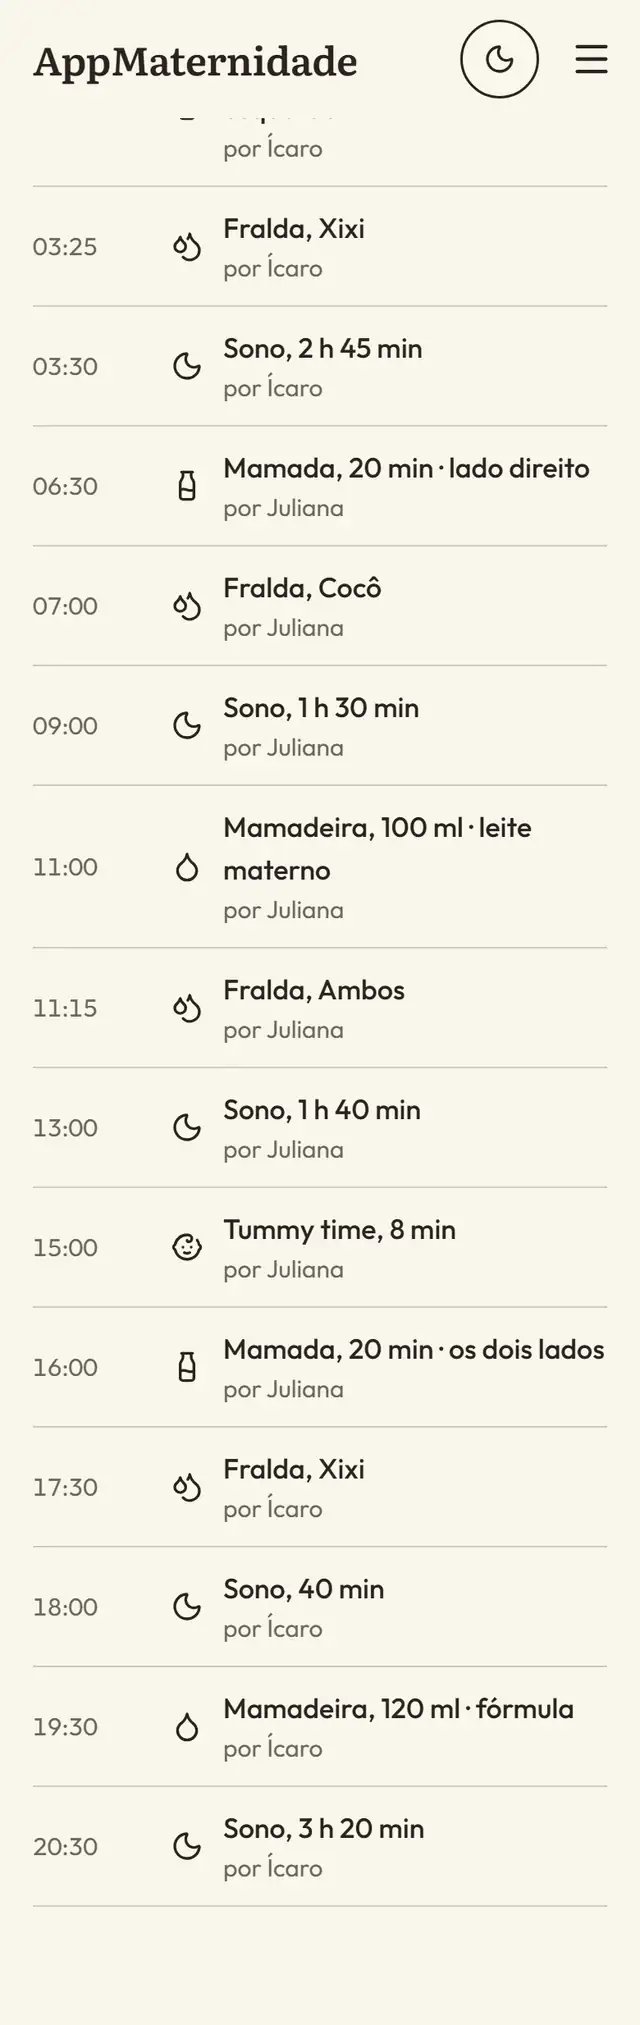
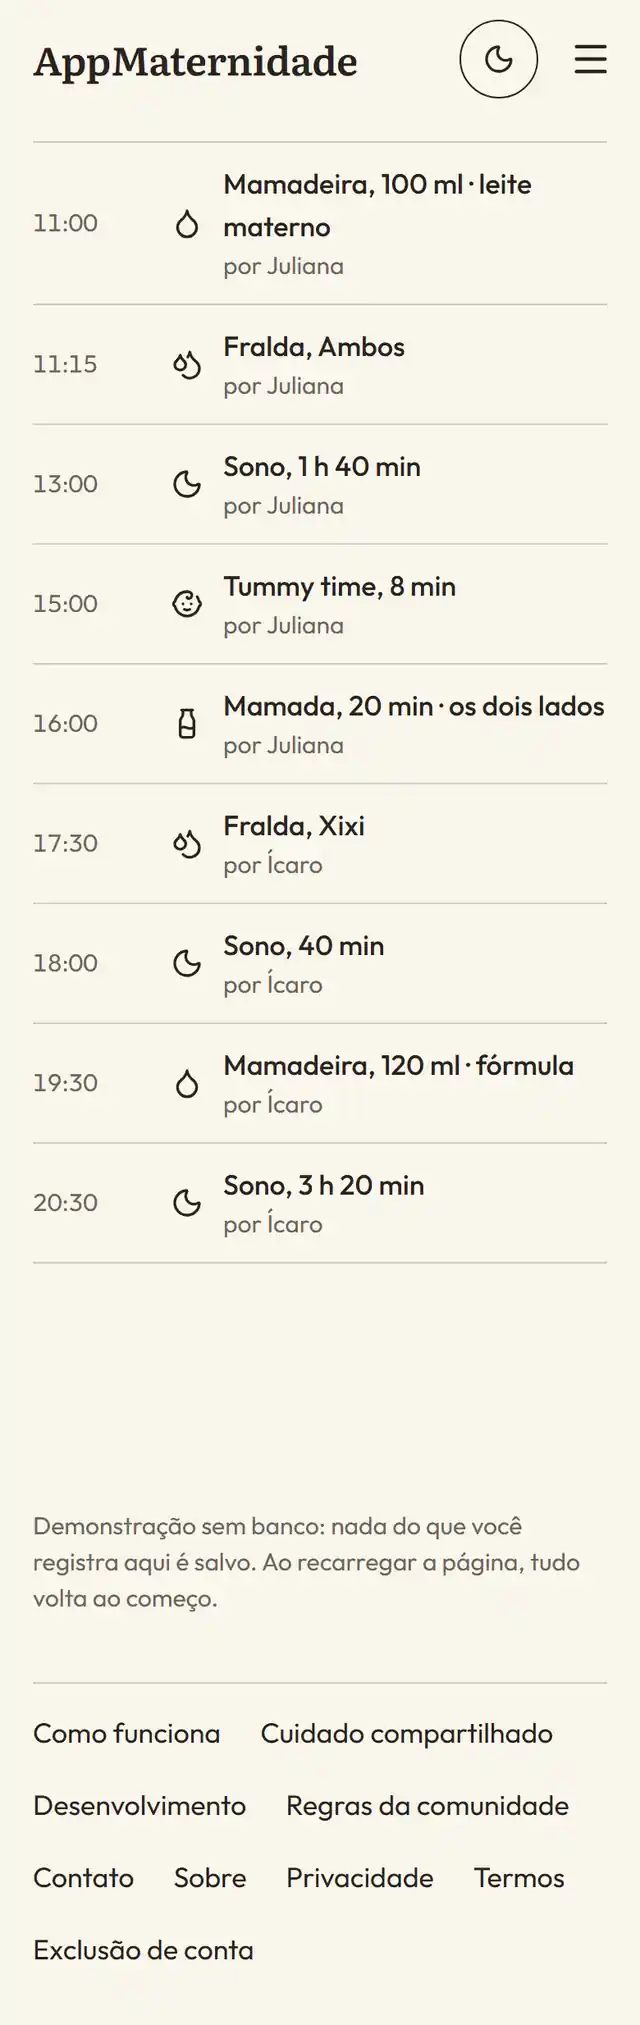
Recaptura Histórico e Hoje no horário da cena e fecha o teto

diff --git a/web/src/componentes/inicio-casa/midia.ts b/web/src/componentes/inicio-casa/midia.ts
@@ -84,11 +84,12 @@ const TAMANHOS_DA_TELA =
   '(min-width: 1440px) 320px, (max-width: 390px) 280px, calc(280px + (100vw - 390px) * 40 / 1050)'
 
 /**
- * State `Y_ALTA` of the manifest (recaptured 19/11/2026): the Histórico of the day before at 21:42, in a 390 x 1234
- * window scrolled to the foot, with the site footer and the demo note hidden for the capture. The app header sits at the
- * top of the image; the rows run from 03:25 to 20:30. The frame's screen layer shows 844 of the 1234 CSS px, so the
- * capture has exactly one screen width more than the screen (`ROLAGEM_PX`): the frame opens on the foot (the 16:00
- * Juliana and 17:30 Ícaro rows) and the pan goes up to the header and the morning rows. The frames of the Início serve it.
+ * State `Y_ALTA` of the manifest (recaptured 19/11/2026, clock fixed 18/11 21:42): the Histórico of the day before in a
+ * 390 x 1234 window scrolled to the page maximum (scroll_y 1767 of a 3001 px document), with `[data-rodape]` hidden for
+ * the capture. The app header sits at the top of the image; the rows run from 11:00 to 20:30. The frame's screen layer
+ * shows 844 of the 1234 CSS px, so the capture has exactly one screen width more than the screen (`ROLAGEM_PX`): the
+ * frame opens on the bottom 844 px, where the 16:00 Juliana and 17:30 Ícaro rows lead the resting frame, and the pan
+ * goes up to the header. The frames of the Início serve it.
  */
 export const CAPTURA_Y_ALTA: Imagem = {
   src: '/telas/casa/historico-y-alta-320w.webp',
@@ -129,8 +130,9 @@ export const M11_JANELA: Imagem = {
 }
 
 /**
- * State `N` of the manifest (recaptured 19/11/2026): Hoje in the madrugada theme at 21:42, the sleep in progress since
- * 20:30, in a 390 x 880 window scrolled 78 px, so the title clears the header and the bottom bar cuts no row. It is
+ * State `N` of the manifest (recaptured 19/11/2026, clock fixed 18/11 21:42): Hoje in the madrugada theme (dark), the
+ * sleep in progress since 20:30 and the yellow "Iniciar mamada" button with "Última mamada às 16:00, registrada por
+ * Juliana" above the bottom bar, in a 390 x 880 window scrolled 78 px, so the title clears the header. It is
  * 390:880, taller than the frame's 390:844 screen layer: the sleep frame shows it whole (`object-fit: contain` on the
  * paper of the app, inicio-casa.css), never cropped.
  */

diff --git a/web/public/telas/casa/PROVENANCE.md b/web/public/telas/casa/PROVENANCE.md
@@ -2,7 +2,7 @@
 
 The three screens were captured by `.oc/capturar.mjs` through `.oc/cdp.mjs` with mobile emulation (dpr 2, touch) and the fixed demo clock; each PNG is downscaled with LANCZOS to the served widths and encoded as lossy WebP (method 6). The manifest `MANIFESTO.json` carries the capture records and the hashes.
 
-HOME-FINAL recapture (2026-11-19): `historico-y-alta-*` and `hoje-n-*` were captured again with the `janela` extra of `.oc/capturar.mjs` (demo sign-in, DPR 2, asserted paths `/app/historico` and `/app/hoje`, clock fixed 2026-11-18T21:42:04-03:00) and encoded by `.oc/gerar.py` (PIL LANCZOS, WebP method 6, the quality per file below). The Histórico is the day before in a 390 x 1234 window scrolled to the foot, with the site footer and the demo note hidden by an injected `display:none` rule for the capture only; the Hoje is a 390 x 880 window scrolled 78 px. Same file names as before. `historico-y-*` (state Y) is unchanged.
+HOME-FINAL-b recapture (2026-11-19): `historico-y-alta-*` and `hoje-n-*` were captured again by `.oc/rec.mjs`, which calls the `janela` extra of `.oc/capturar.mjs` with fail-closed asserts (demo sign-in, DPR 2, asserted paths `/app/historico` and `/app/hoje`) and encoded by `.oc/gerar.py` (PIL LANCZOS, WebP method 6, the quality per file below). The clock is pinned to 2026-11-18T21:42:04-03:00 by a CDP `Page.addScriptToEvaluateOnNewDocument` Date shim (`CAPTURA_RELOGIO`). Why: the previous Hoje capture used the case `hoje_app`, whose route branch never switched the madrugada theme, so it came out light, and in light the "Iniciar mamada" button with the last-feeding line is not drawn; the previous Histórico frame rested on the bottom 844 css px of the 1234 px capture and left the 09:00 row at its top. Now: the Histórico is the day before at 21:42 in a 390 x 1234 window (row 16:00 Juliana aligned at y=404 css, 17:30 Ícaro right below, so they lead the resting frame; scroll_y 1767, document height 3001 = scroll_y + 1234); 69 css px of blank spacer was added at the foot of the page for the capture only, so the page can scroll that far; the site footer `[data-rodape]` is set to `display:none` by an injected rule for the capture only. The Hoje is the madrugada theme (`data-tema` madrugada) in a 390 x 880 window scrolled 78 px, with "Iniciar mamada" and "Última mamada às 16:00, registrada por Juliana" fully above the bottom bar. The demo fixture has no entries for today, so the clock pin cannot create today's rows and the Hoje counters stay 0 by the fixture. Same file names as before. `historico-y-*` (state Y) is unchanged.
 
 | file | sha256 | bytes | WxH | source | script (name + sha256) | operation | date |
 |---|---|---|---|---|---|---|---|
@@ -10,11 +10,11 @@ HOME-FINAL recapture (2026-11-19): `historico-y-alta-*` and `hoje-n-*` were capt
 | historico-y-560w.webp | 99679ea38918e022f0253ecd544ce2cce6ef20060c1db4b0c516cf8745b30a3d | 26834 | 560x1212 | historico_y_claro_390.png sha256 d701a1ad534373e36f54470f4933789249c2920eb5bfb65db671d79c5cd145a1; CAPTURA_OK historico_y_claro_390.png caminho=/app/historico png=780x1688 esperado=780x1688 mobile=true dpr=2 toque=true scrollWidth=390 sha256=d701a1ad534373e36f54470f4933789249c2920eb5bfb65db671d79c5cd145a1 (só a janela) | gerar_ativos.py sha256 8485a4e01cd8f989db7340d77d502f4da907c993941f3b3b68ca94eb8b5ae7d6 | WebP q82 method 6 LANCZOS downscale from 780 px | 2026-11-18 |
 | historico-y-320w.webp | fa6462b412e4be99752bd3626af98d93bfa00f6deb8c310d470a366bc4d8a60f | 13752 | 320x693 | historico_y_claro_390.png sha256 d701a1ad534373e36f54470f4933789249c2920eb5bfb65db671d79c5cd145a1; CAPTURA_OK historico_y_claro_390.png caminho=/app/historico png=780x1688 esperado=780x1688 mobile=true dpr=2 toque=true scrollWidth=390 sha256=d701a1ad534373e36f54470f4933789249c2920eb5bfb65db671d79c5cd145a1 (só a janela) | gerar_ativos.py sha256 8485a4e01cd8f989db7340d77d502f4da907c993941f3b3b68ca94eb8b5ae7d6 | WebP q82 method 6 LANCZOS downscale from 780 px | 2026-11-18 |
 | historico-y-280w.webp | 25e7c44db58acfe875c07aa60a4630e981e32b45d4772f0d98ce67b1edff1679 | 11924 | 280x606 | historico_y_claro_390.png sha256 d701a1ad534373e36f54470f4933789249c2920eb5bfb65db671d79c5cd145a1; CAPTURA_OK historico_y_claro_390.png caminho=/app/historico png=780x1688 esperado=780x1688 mobile=true dpr=2 toque=true scrollWidth=390 sha256=d701a1ad534373e36f54470f4933789249c2920eb5bfb65db671d79c5cd145a1 (só a janela) | gerar_ativos.py sha256 8485a4e01cd8f989db7340d77d502f4da907c993941f3b3b68ca94eb8b5ae7d6 | WebP q82 method 6 LANCZOS downscale from 780 px | 2026-11-18 |
-| historico-y-alta-640w.webp | 097cf652125d1d2306d296e20066143bcd3ffc77d99cf406c2b837e8d037d836 | 35798 | 640x2025 | historico_ontem_claro_390_janela.png sha256 2697512667fafe9f680bacf0ca2984cf0c99e3778b9d209717c47d6042abb061; CAPTURA_OK historico_ontem_claro_390_janela.png caminho=/app/historico png=780x2468 esperado=780x2468 mobile=true dpr=2 toque=true scrollWidth=390 sha256=2697512667fafe9f680bacf0ca2984cf0c99e3778b9d209717c47d6042abb061 (só a janela); the day before, scrolled to the foot (CAPTURA_ROLAR=fim), site footer and demo note hidden by injected display:none | .oc/capturar.mjs (extra janela, clock fixed 2026-11-18T21:42:04-03:00) + .oc/gerar.py | WebP q60 method 6 PIL LANCZOS downscale from 780 px | 2026-11-19 |
-| historico-y-alta-560w.webp | 8553f2feff632f75eb3b8e4641a714d7229fb9be6f3c1a5d40dcd54ce0f9f9a9 | 33812 | 560x1772 | historico_ontem_claro_390_janela.png sha256 2697512667fafe9f680bacf0ca2984cf0c99e3778b9d209717c47d6042abb061; CAPTURA_OK historico_ontem_claro_390_janela.png caminho=/app/historico png=780x2468 esperado=780x2468 mobile=true dpr=2 toque=true scrollWidth=390 sha256=2697512667fafe9f680bacf0ca2984cf0c99e3778b9d209717c47d6042abb061 (só a janela); the day before, scrolled to the foot (CAPTURA_ROLAR=fim), site footer and demo note hidden by injected display:none | .oc/capturar.mjs (extra janela, clock fixed 2026-11-18T21:42:04-03:00) + .oc/gerar.py | WebP q72 method 6 PIL LANCZOS downscale from 780 px | 2026-11-19 |
-| historico-y-alta-320w.webp | 358e2c46fce1f935e7f49187d15ce5cf6e24ac753f8c6561942c20763ce5a4ec | 16102 | 320x1013 | historico_ontem_claro_390_janela.png sha256 2697512667fafe9f680bacf0ca2984cf0c99e3778b9d209717c47d6042abb061; CAPTURA_OK historico_ontem_claro_390_janela.png caminho=/app/historico png=780x2468 esperado=780x2468 mobile=true dpr=2 toque=true scrollWidth=390 sha256=2697512667fafe9f680bacf0ca2984cf0c99e3778b9d209717c47d6042abb061 (só a janela); the day before, scrolled to the foot (CAPTURA_ROLAR=fim), site footer and demo note hidden by injected display:none | .oc/capturar.mjs (extra janela, clock fixed 2026-11-18T21:42:04-03:00) + .oc/gerar.py | WebP q60 method 6 PIL LANCZOS downscale from 780 px | 2026-11-19 |
-| historico-y-alta-280w.webp | 53fc11b8b726ed9118477c8a251bb96eab67b7ac765e33de2a71d992686dcc66 | 15232 | 280x886 | historico_ontem_claro_390_janela.png sha256 2697512667fafe9f680bacf0ca2984cf0c99e3778b9d209717c47d6042abb061; CAPTURA_OK historico_ontem_claro_390_janela.png caminho=/app/historico png=780x2468 esperado=780x2468 mobile=true dpr=2 toque=true scrollWidth=390 sha256=2697512667fafe9f680bacf0ca2984cf0c99e3778b9d209717c47d6042abb061 (só a janela); the day before, scrolled to the foot (CAPTURA_ROLAR=fim), site footer and demo note hidden by injected display:none | .oc/capturar.mjs (extra janela, clock fixed 2026-11-18T21:42:04-03:00) + .oc/gerar.py | WebP q72 method 6 PIL LANCZOS downscale from 780 px | 2026-11-19 |
-| hoje-n-640w.webp | 78e6b9d7ff4974821ea0cf0c88d1b3668b920c35b8fabec119a6a2db7f52453b | 31116 | 640x1444 | hoje_app_madrugada_390_janela.png sha256 f7228c3e02d01ef7b7edd9650cfb5b5a43b896144c6d9c683bf2743ec7e503cc; CAPTURA_OK hoje_app_madrugada_390_janela.png caminho=/app/hoje png=780x1760 esperado=780x1760 mobile=true dpr=2 toque=true scrollWidth=390 sha256=f7228c3e02d01ef7b7edd9650cfb5b5a43b896144c6d9c683bf2743ec7e503cc (só a janela); 390 x 880 window scrolled 78 px | .oc/capturar.mjs (extra janela, clock fixed 2026-11-18T21:42:04-03:00) + .oc/gerar.py | WebP q72 method 6 PIL LANCZOS downscale from 780 px | 2026-11-19 |
-| hoje-n-560w.webp | 1195fa4bcbdcc4dddd5658ce18d80e0519ad22eacfcdb7029f7642bf83d56a5a | 33414 | 560x1264 | hoje_app_madrugada_390_janela.png sha256 f7228c3e02d01ef7b7edd9650cfb5b5a43b896144c6d9c683bf2743ec7e503cc; CAPTURA_OK hoje_app_madrugada_390_janela.png caminho=/app/hoje png=780x1760 esperado=780x1760 mobile=true dpr=2 toque=true scrollWidth=390 sha256=f7228c3e02d01ef7b7edd9650cfb5b5a43b896144c6d9c683bf2743ec7e503cc (só a janela); 390 x 880 window scrolled 78 px | .oc/capturar.mjs (extra janela, clock fixed 2026-11-18T21:42:04-03:00) + .oc/gerar.py | WebP q82 method 6 PIL LANCZOS downscale from 780 px | 2026-11-19 |
-| hoje-n-320w.webp | 7d662d876aa5bdf700290107301f8cbe0ffb295ab0729b7c11862bfe12374a9a | 14674 | 320x722 | hoje_app_madrugada_390_janela.png sha256 f7228c3e02d01ef7b7edd9650cfb5b5a43b896144c6d9c683bf2743ec7e503cc; CAPTURA_OK hoje_app_madrugada_390_janela.png caminho=/app/hoje png=780x1760 esperado=780x1760 mobile=true dpr=2 toque=true scrollWidth=390 sha256=f7228c3e02d01ef7b7edd9650cfb5b5a43b896144c6d9c683bf2743ec7e503cc (só a janela); 390 x 880 window scrolled 78 px | .oc/capturar.mjs (extra janela, clock fixed 2026-11-18T21:42:04-03:00) + .oc/gerar.py | WebP q72 method 6 PIL LANCZOS downscale from 780 px | 2026-11-19 |
-| hoje-n-280w.webp | bda059ebf69c3b63c353ba043034e7ffe687e5f8f9433877c5582a88854e43e4 | 15334 | 280x632 | hoje_app_madrugada_390_janela.png sha256 f7228c3e02d01ef7b7edd9650cfb5b5a43b896144c6d9c683bf2743ec7e503cc; CAPTURA_OK hoje_app_madrugada_390_janela.png caminho=/app/hoje png=780x1760 esperado=780x1760 mobile=true dpr=2 toque=true scrollWidth=390 sha256=f7228c3e02d01ef7b7edd9650cfb5b5a43b896144c6d9c683bf2743ec7e503cc (só a janela); 390 x 880 window scrolled 78 px | .oc/capturar.mjs (extra janela, clock fixed 2026-11-18T21:42:04-03:00) + .oc/gerar.py | WebP q82 method 6 PIL LANCZOS downscale from 780 px | 2026-11-19 |
+| historico-y-alta-640w.webp | 2afcfa6d8d37b3230f7ebcc754dde1c0b15efe11ef0e37501ae275c922d511e9 | 34788 | 640x2025 | historico_ontem_claro_390_janela.png sha256 06c93bd433a268d7c96171239f2580bde622b008dd63b63d55d7134d03d9780b; CAPTURA_OK historico_ontem_claro_390_janela.png caminho=/app/historico png=780x2468 esperado=780x2468 mobile=true dpr=2 toque=true scrollWidth=390 sha256=06c93bd433a268d7c96171239f2580bde622b008dd63b63d55d7134d03d9780b (só a janela); the day before, 390 x 1234 window at scroll_y 1767 of 3001, 16:00 row aligned at y=404 css, 69 css px spacer at the foot, `[data-rodape]` hidden by injected display:none | .oc/rec.mjs -> .oc/capturar.mjs (extra janela, clock pinned 2026-11-18T21:42:04-03:00) + .oc/gerar.py | WebP q39 method 6 PIL LANCZOS downscale from 780 px (quality lowered to stay under the 35000 B cap) | 2026-11-19 |
+| historico-y-alta-560w.webp | 8bc9c64cc7ea7909eb66d529a50965c9d3e211a288d6e21ed8c48b79060c8363 | 34524 | 560x1772 | historico_ontem_claro_390_janela.png sha256 06c93bd433a268d7c96171239f2580bde622b008dd63b63d55d7134d03d9780b; CAPTURA_OK historico_ontem_claro_390_janela.png caminho=/app/historico png=780x2468 esperado=780x2468 mobile=true dpr=2 toque=true scrollWidth=390 sha256=06c93bd433a268d7c96171239f2580bde622b008dd63b63d55d7134d03d9780b (só a janela); the day before, 390 x 1234 window at scroll_y 1767 of 3001, 16:00 row aligned at y=404 css, 69 css px spacer at the foot, `[data-rodape]` hidden by injected display:none | .oc/rec.mjs -> .oc/capturar.mjs (extra janela, clock pinned 2026-11-18T21:42:04-03:00) + .oc/gerar.py | WebP q54 method 6 PIL LANCZOS downscale from 780 px (quality lowered to stay under the 35000 B cap) | 2026-11-19 |
+| historico-y-alta-320w.webp | 7aba27eddc2806a517a19c5e7b623eff8ec99737e2044aee3697a3b5b0496fc2 | 17790 | 320x1013 | historico_ontem_claro_390_janela.png sha256 06c93bd433a268d7c96171239f2580bde622b008dd63b63d55d7134d03d9780b; CAPTURA_OK historico_ontem_claro_390_janela.png caminho=/app/historico png=780x2468 esperado=780x2468 mobile=true dpr=2 toque=true scrollWidth=390 sha256=06c93bd433a268d7c96171239f2580bde622b008dd63b63d55d7134d03d9780b (só a janela); the day before, 390 x 1234 window at scroll_y 1767 of 3001, 16:00 row aligned at y=404 css, 69 css px spacer at the foot, `[data-rodape]` hidden by injected display:none | .oc/rec.mjs -> .oc/capturar.mjs (extra janela, clock pinned 2026-11-18T21:42:04-03:00) + .oc/gerar.py | WebP q60 method 6 PIL LANCZOS downscale from 780 px | 2026-11-19 |
+| historico-y-alta-280w.webp | 7c11c0b787aa2ee944806d95ea15e88848de05cf9dc4b90d499c17ce12d4cb9f | 16104 | 280x886 | historico_ontem_claro_390_janela.png sha256 06c93bd433a268d7c96171239f2580bde622b008dd63b63d55d7134d03d9780b; CAPTURA_OK historico_ontem_claro_390_janela.png caminho=/app/historico png=780x2468 esperado=780x2468 mobile=true dpr=2 toque=true scrollWidth=390 sha256=06c93bd433a268d7c96171239f2580bde622b008dd63b63d55d7134d03d9780b (só a janela); the day before, 390 x 1234 window at scroll_y 1767 of 3001, 16:00 row aligned at y=404 css, 69 css px spacer at the foot, `[data-rodape]` hidden by injected display:none | .oc/rec.mjs -> .oc/capturar.mjs (extra janela, clock pinned 2026-11-18T21:42:04-03:00) + .oc/gerar.py | WebP q72 method 6 PIL LANCZOS downscale from 780 px | 2026-11-19 |
+| hoje-n-640w.webp | 4839c5706f10717bcd1cf822095e488939edbaf5b26e9093d4fbad58cc4d0f50 | 33318 | 640x1444 | hoje_madrugada_390_janela.png sha256 65f98b0ccb2471c5868dc6b2d8f3994ede0e48e3f906a8a8c5ce848a7ba556f2; CAPTURA_OK hoje_madrugada_390_janela.png caminho=/app/hoje png=780x1760 esperado=780x1760 mobile=true dpr=2 toque=true scrollWidth=390 sha256=65f98b0ccb2471c5868dc6b2d8f3994ede0e48e3f906a8a8c5ce848a7ba556f2 (só a janela); madrugada theme, 390 x 880 window scrolled 78 px | .oc/rec.mjs -> .oc/capturar.mjs (extra janela, clock pinned 2026-11-18T21:42:04-03:00) + .oc/gerar.py | WebP q70 method 6 PIL LANCZOS downscale from 780 px | 2026-11-19 |
+| hoje-n-560w.webp | b0855395324aa2b6723380c428455b4bd14a1be171165dfba4d471d665ab2686 | 33272 | 560x1264 | hoje_madrugada_390_janela.png sha256 65f98b0ccb2471c5868dc6b2d8f3994ede0e48e3f906a8a8c5ce848a7ba556f2; CAPTURA_OK hoje_madrugada_390_janela.png caminho=/app/hoje png=780x1760 esperado=780x1760 mobile=true dpr=2 toque=true scrollWidth=390 sha256=65f98b0ccb2471c5868dc6b2d8f3994ede0e48e3f906a8a8c5ce848a7ba556f2 (só a janela); madrugada theme, 390 x 880 window scrolled 78 px | .oc/rec.mjs -> .oc/capturar.mjs (extra janela, clock pinned 2026-11-18T21:42:04-03:00) + .oc/gerar.py | WebP q80 method 6 PIL LANCZOS downscale from 780 px | 2026-11-19 |
+| hoje-n-320w.webp | 6571ccd866fe1b4c62de58327af8275fd04938b7eb90f2da52d03fb98df940a3 | 14516 | 320x722 | hoje_madrugada_390_janela.png sha256 65f98b0ccb2471c5868dc6b2d8f3994ede0e48e3f906a8a8c5ce848a7ba556f2; CAPTURA_OK hoje_madrugada_390_janela.png caminho=/app/hoje png=780x1760 esperado=780x1760 mobile=true dpr=2 toque=true scrollWidth=390 sha256=65f98b0ccb2471c5868dc6b2d8f3994ede0e48e3f906a8a8c5ce848a7ba556f2 (só a janela); madrugada theme, 390 x 880 window scrolled 78 px | .oc/rec.mjs -> .oc/capturar.mjs (extra janela, clock pinned 2026-11-18T21:42:04-03:00) + .oc/gerar.py | WebP q72 method 6 PIL LANCZOS downscale from 780 px | 2026-11-19 |
+| hoje-n-280w.webp | 0b0f0522429d22b3a7aea287300aabc34115273fc3c4cab74c6dff7a37cade13 | 15122 | 280x632 | hoje_madrugada_390_janela.png sha256 65f98b0ccb2471c5868dc6b2d8f3994ede0e48e3f906a8a8c5ce848a7ba556f2; CAPTURA_OK hoje_madrugada_390_janela.png caminho=/app/hoje png=780x1760 esperado=780x1760 mobile=true dpr=2 toque=true scrollWidth=390 sha256=65f98b0ccb2471c5868dc6b2d8f3994ede0e48e3f906a8a8c5ce848a7ba556f2 (só a janela); madrugada theme, 390 x 880 window scrolled 78 px | .oc/rec.mjs -> .oc/capturar.mjs (extra janela, clock pinned 2026-11-18T21:42:04-03:00) + .oc/gerar.py | WebP q82 method 6 PIL LANCZOS downscale from 780 px | 2026-11-19 |
